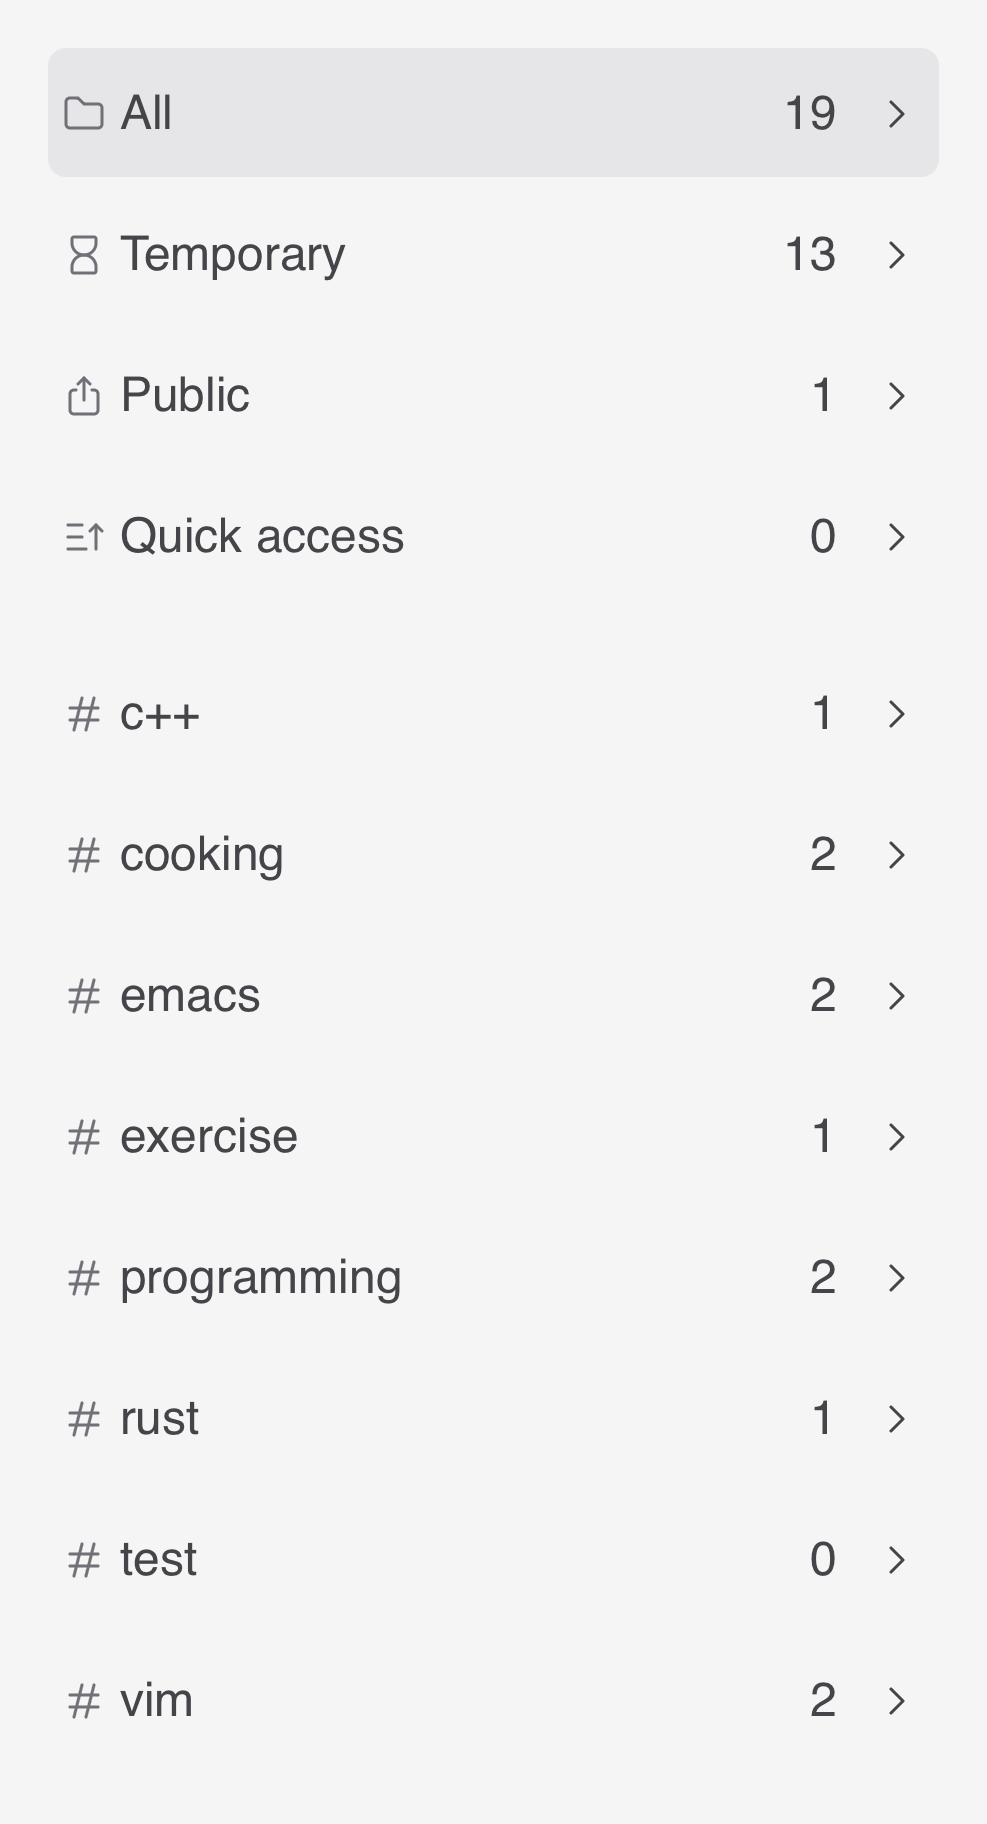
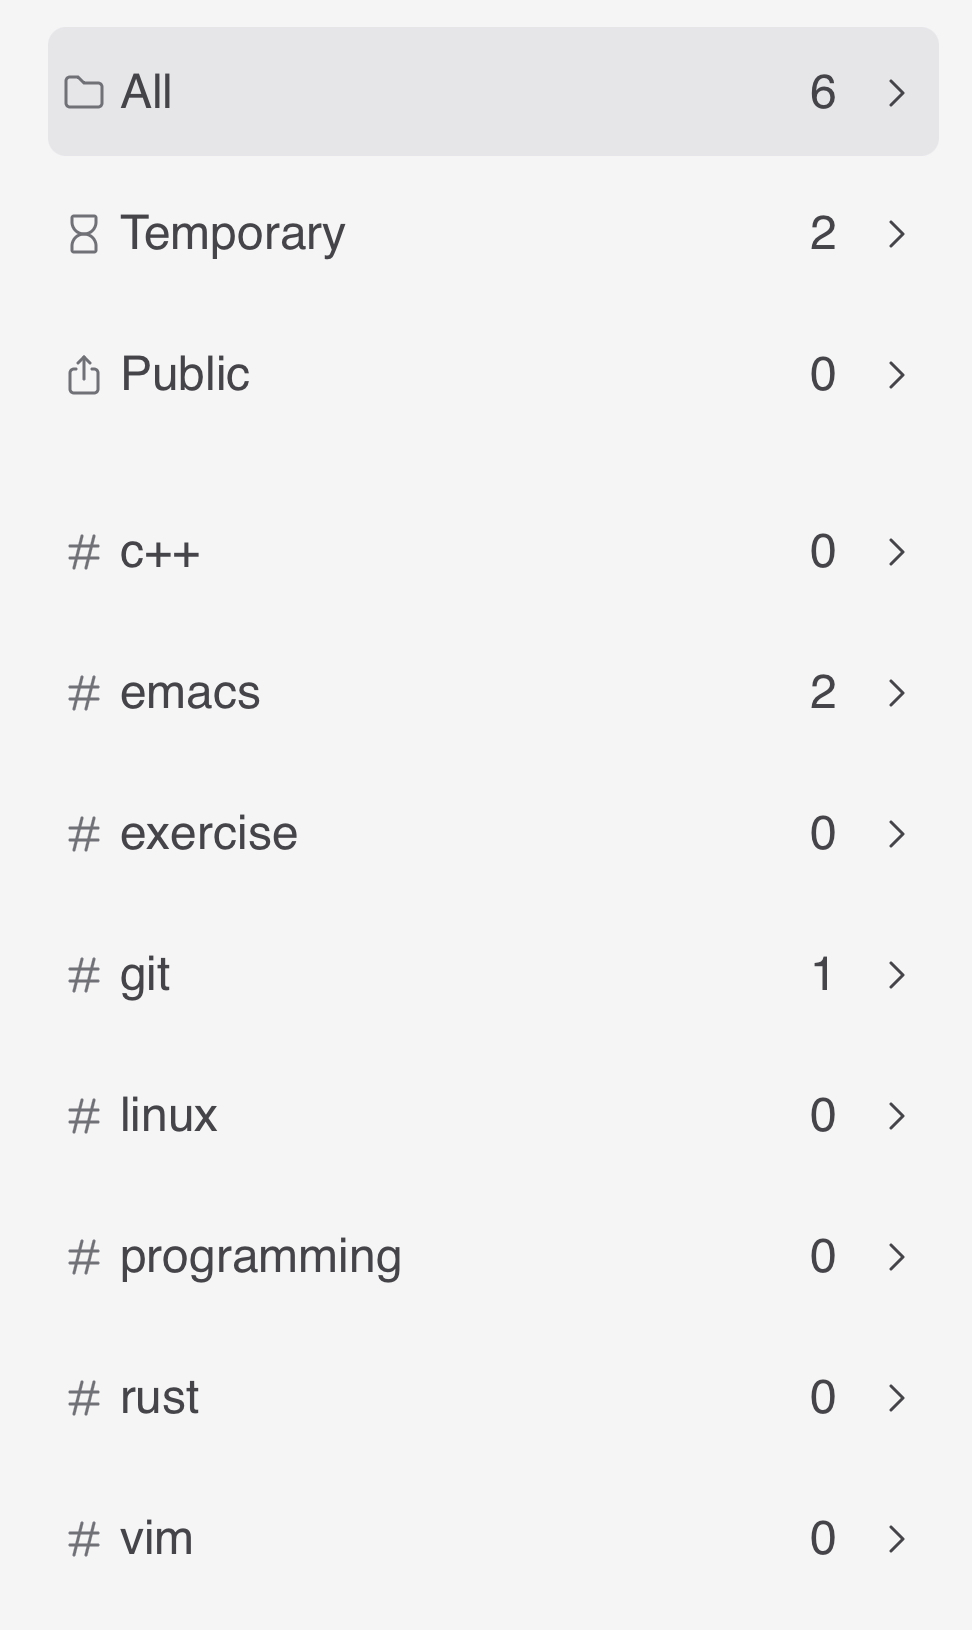
Further tags fixes. Removed mentions of Quick Access.

diff --git a/docs/kagi/ai/assistant.md b/docs/kagi/ai/assistant.md
@@ -67,11 +67,8 @@ By default, threads are kept for 24 hours after the last message.
 If keeping threads alive permanently better fits your workflow, you can adjust this setting in [Assistant Settings](https://kagi.com/settings/?p=assistant).
 Please note that the thread saving setting is applied **when the thread is created**.
 
-Threads can be renamed, added to Quick Access, shared, deleted, and downloaded via the `⋮` button which is displayed when you hover over the thread.
+Threads can be renamed, downloaded, shared, and  deleted via the `⋮` button which is displayed when you hover over the thread.
 Threads can be further organized by adding tags to them.
-
-The Quick Access feature can be used to better organize your threads, but it will not influence the thread saving setting.
-In other words, threads added to Quick Access will also be deleted after 24 hours, if they have the **Temporary** tag.
 
 ## Tags
 
@@ -83,7 +80,7 @@ On mobile devices the tag settings can be found by tapping <img src="./media/kag
 
 If you have configured your threads to expire after 24 hours, each thread you create will automatically have the **Temporary** tag.
 You can prevent threads from expiring by removing that tag.
-Adding a tag to a thread will automatically remove the **Temporary** tag.
+Please note that adding a tag does not automatically remove the **Temporary** tag.
 
 Each thread can have up to 100 tags.
 Tags can be removed in the same menu where they were added.
@@ -148,7 +145,7 @@ You can, for instance, instruct the Assistant to be more succinct or to consider
 You can create Custom Assistants in the [Assistant Settings](https://kagi.com/settings?p=assistant).
 It is possible to customize the LLM, settings (the use of web access, lenses, and personalized results), and the instructions for each Custom Assistant.
 
-The Assistant comes with a built-in **Code** Custom Assistant that is optimized for programming tasks. It uses Claude 3.5 Sonnet and has web access.
+The Assistant comes with a built-in **Code** Custom Assistant that is optimized for programming tasks. It uses Claude 4 Sonnet and has web access.
 
 For more details, refer to the [Custom Assistants](./custom-assistants.md) page.
 
